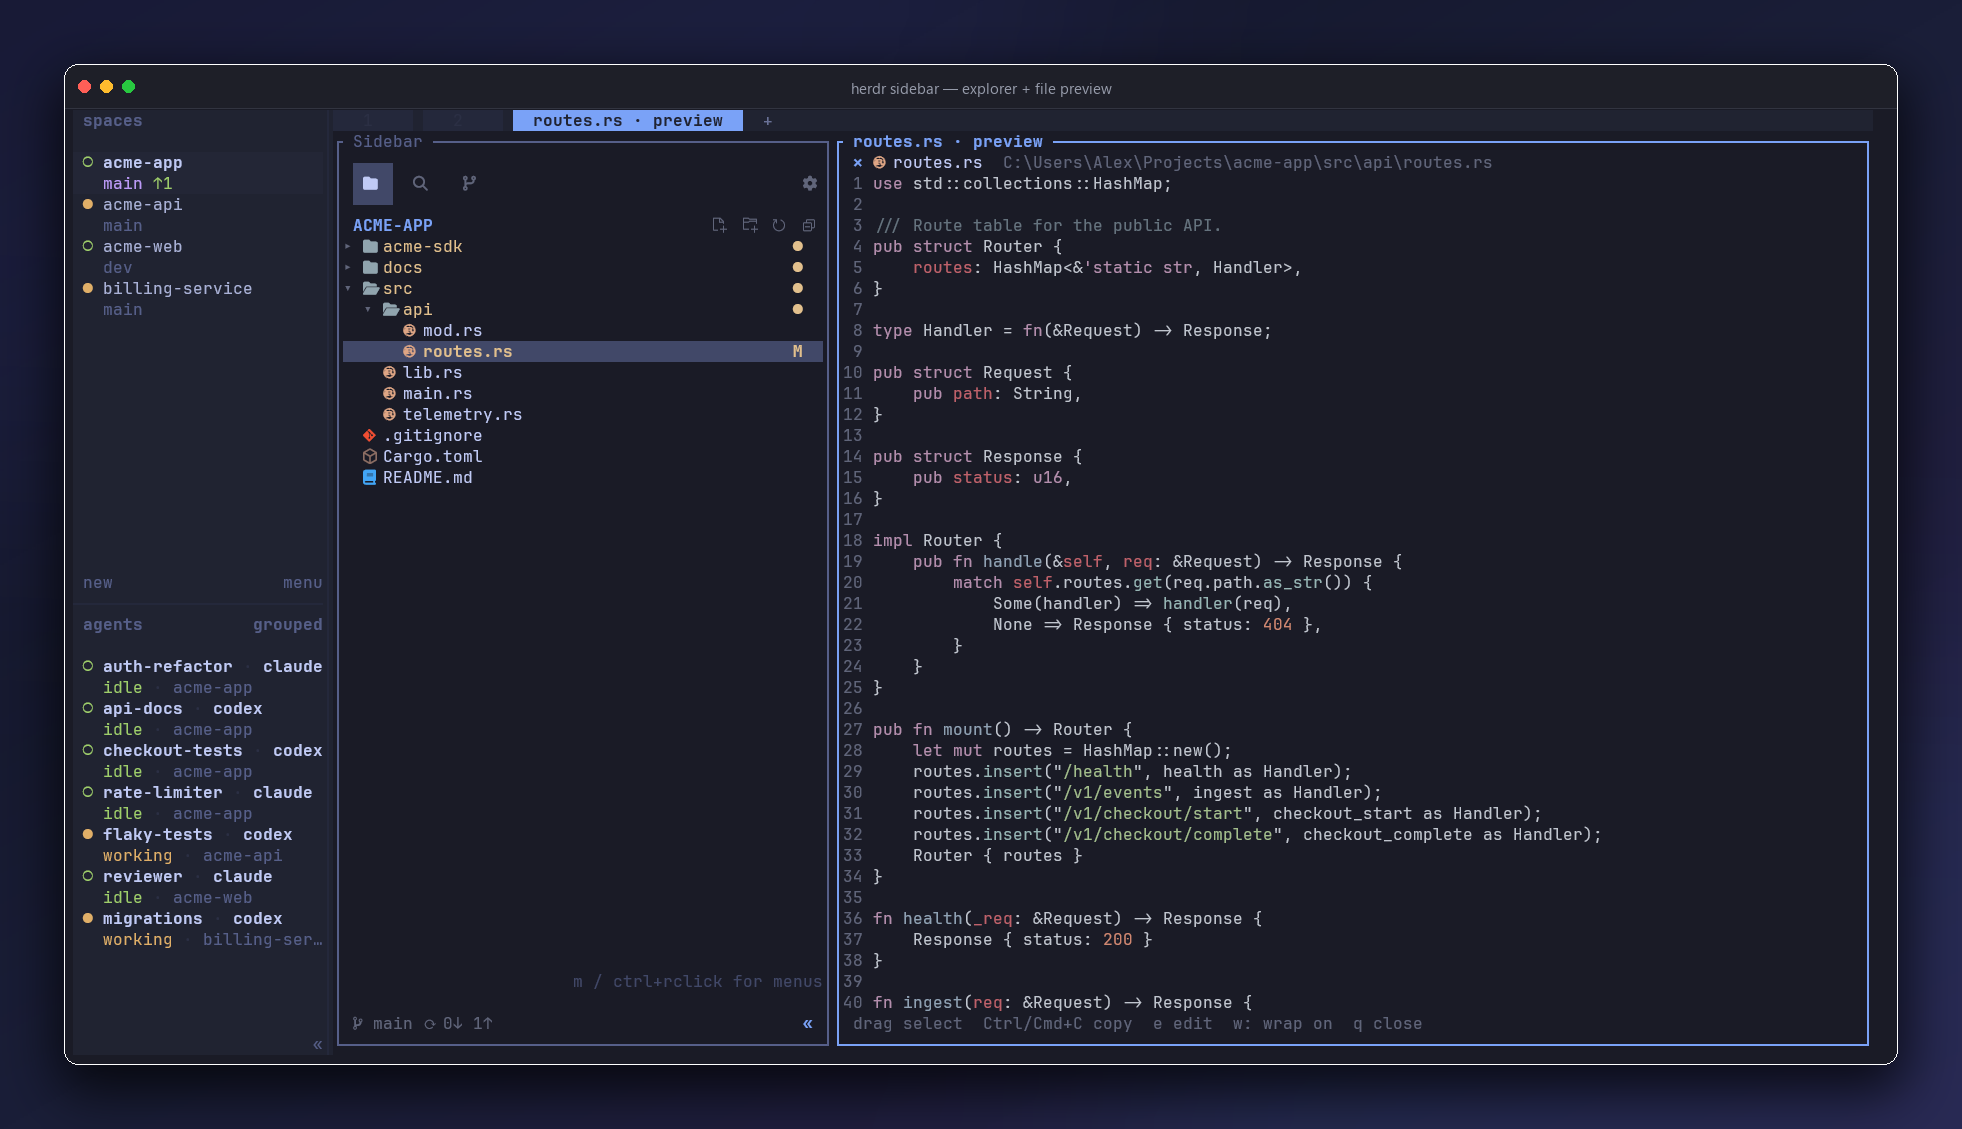
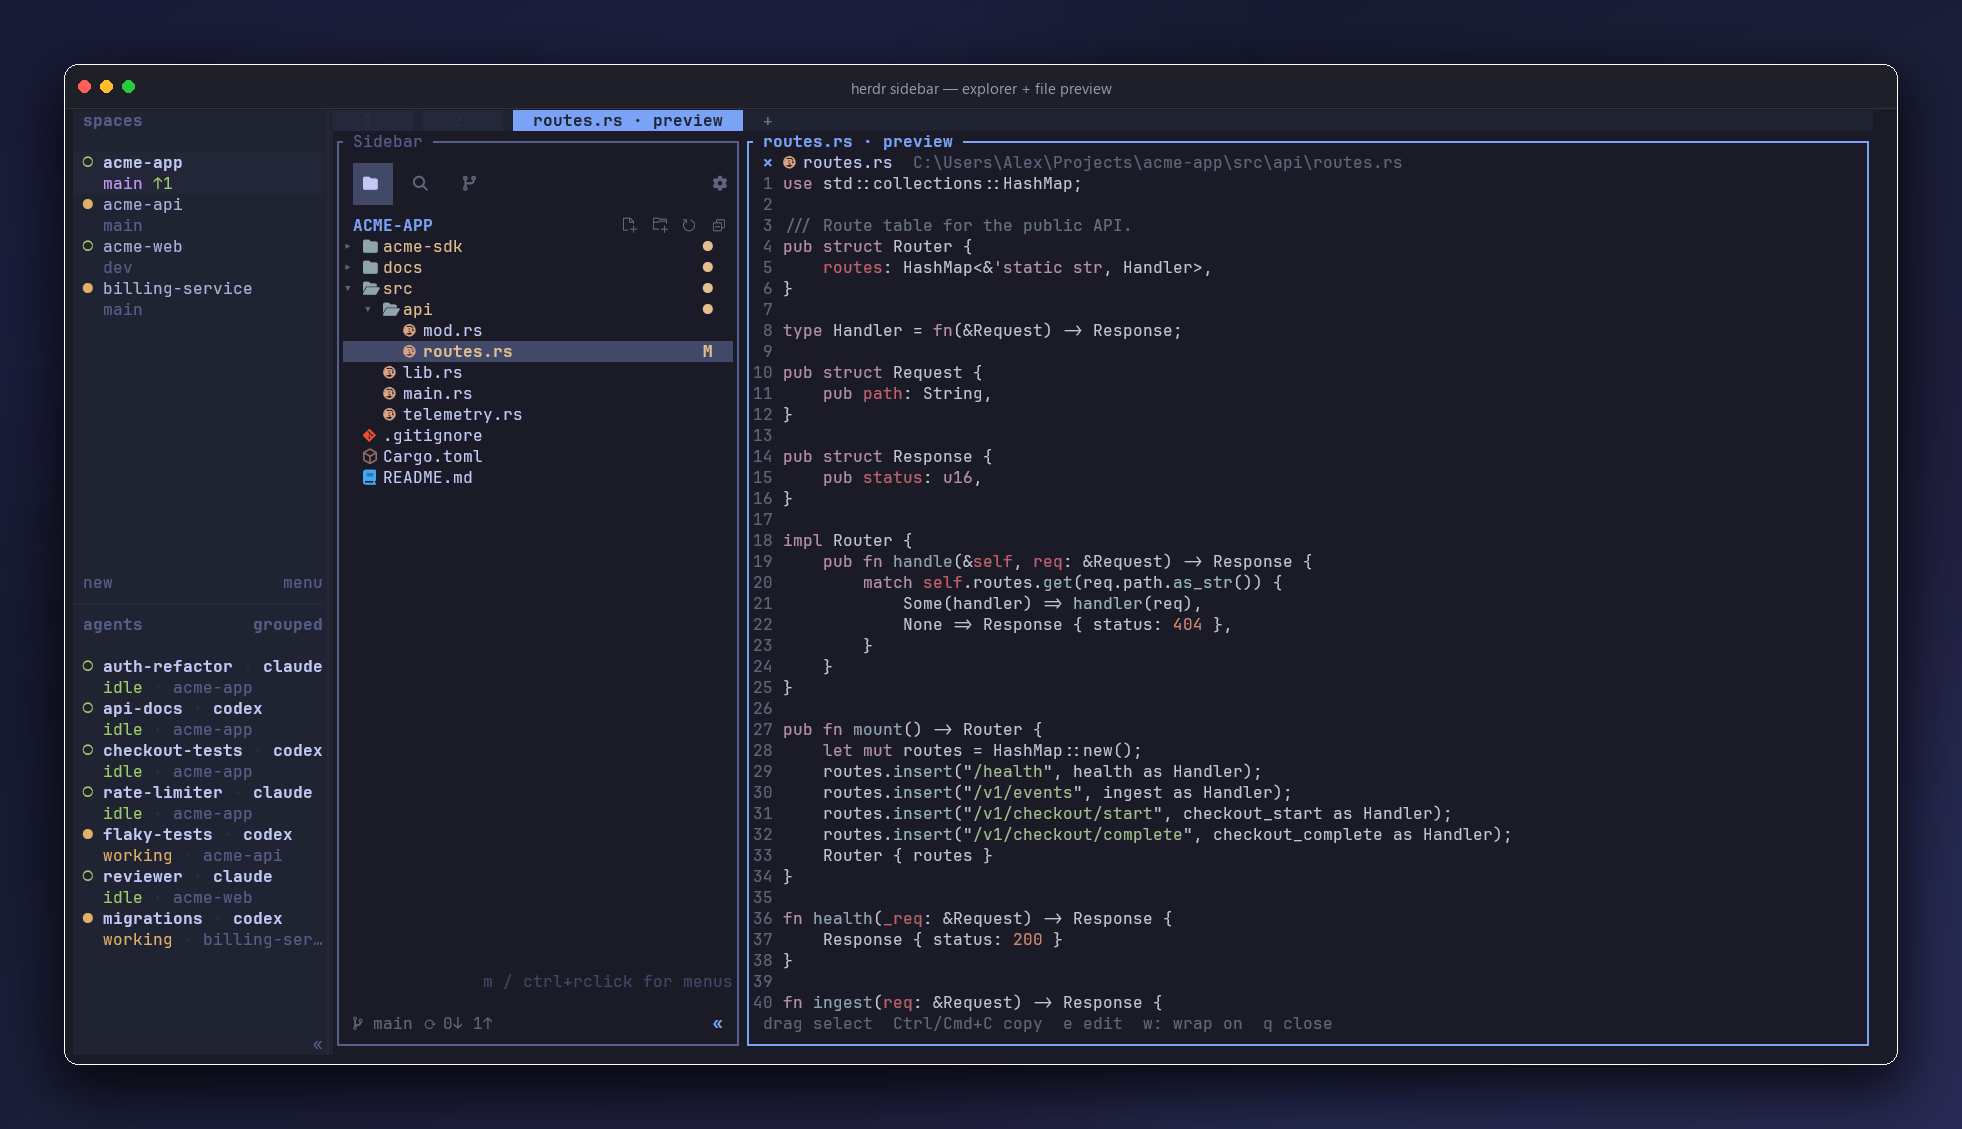
docs: match explorer preview sidebar width to the hero
The preview tab's sidebar re-applies its column target on window resize, so
the earlier ratio was clobbered back to ~half width. Set the split ratio
after the final resize and tune by pixels so the preview sidebar matches the
hero (routes.rs highlight ~399px). Note the timing caveat in CLAUDE.md.

Claude-Session: https://claude.ai/code/session_01VST6S4sLtbPjABXHY71C9b

Changed region(s): [[0.3731, 0.124, 0.8084, 0.93], [0.6529, 0.124, 0.7462, 0.155]]

diff --git a/CLAUDE.md b/CLAUDE.md
@@ -996,7 +996,11 @@ end-to-end twice:
   area); the old 48 cols read too wide (user-corrected). For the HERO's `[[sidebar|col1]|col2]`
   tree, a clean 2×2 with a 39-col sidebar is root `0.623`, `[false]` `0.406`, rows `0.5`.
 - **A preview tab's auto-docked sidebar IGNORES `sidebar_width`** (it docks wide) — set its
-  width via `layout.set_split_ratio` on that tab, not the state field.
+  width via `layout.set_split_ratio` on that tab, not the state field. And set it **AFTER the
+  final window resize**: the sidebar re-applies its persisted column target on every resize, so
+  a ratio set before the resize gets clobbered back to ~48 cols. Verify by pixels, not cols — at
+  1848×1011 the hero and preview sidebars match when the routes.rs selection highlight is ~399px
+  wide (ratio ≈0.27 on a `[Sidebar|preview]` two-pane tab; the col count alone lied here).
 - **Kill claude's "✘ Auto-update failed · Run claude doctor" banner** by relaunching the agent
   with `$env:DISABLE_AUTOUPDATER=1; $env:CLAUDE_CODE_DISABLE_NONESSENTIAL_TRAFFIC=1; claude
   --model fable --permission-mode auto`. `--permission-mode auto` gives auto mode without the
